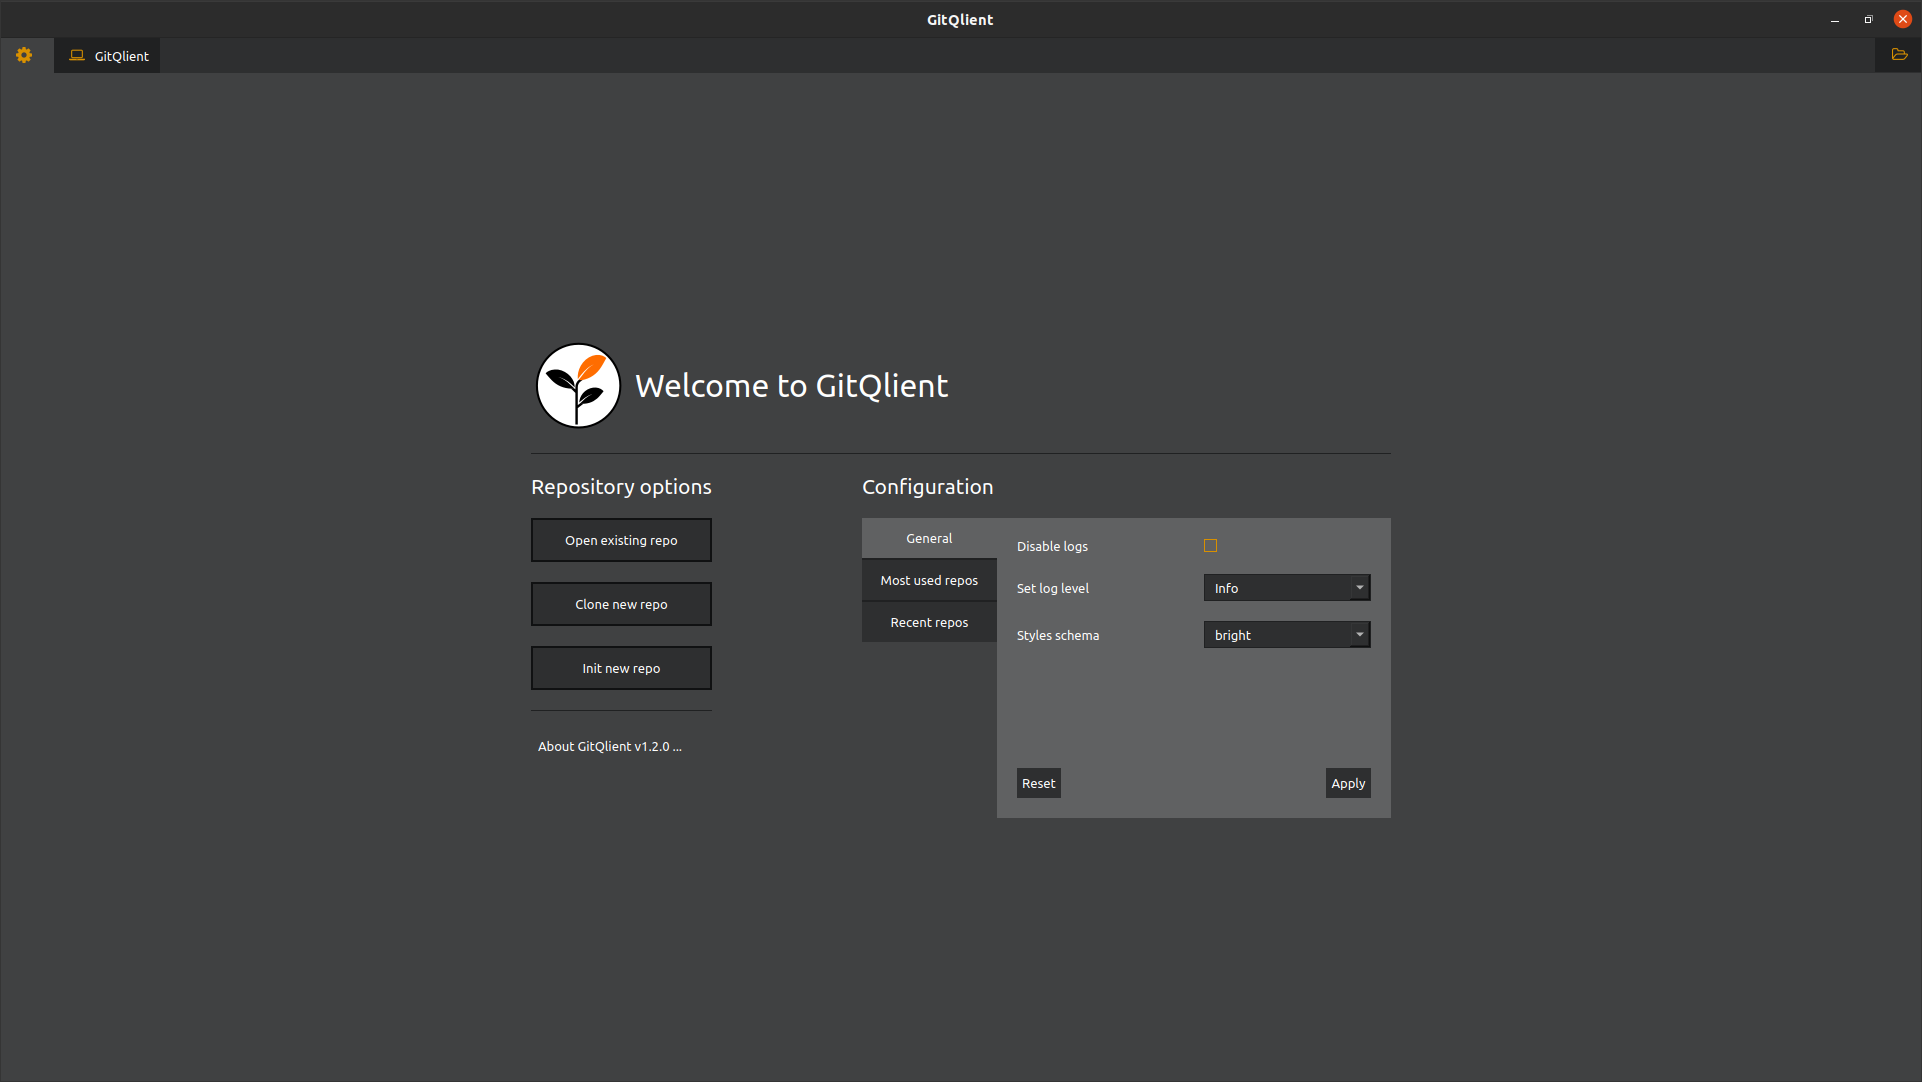
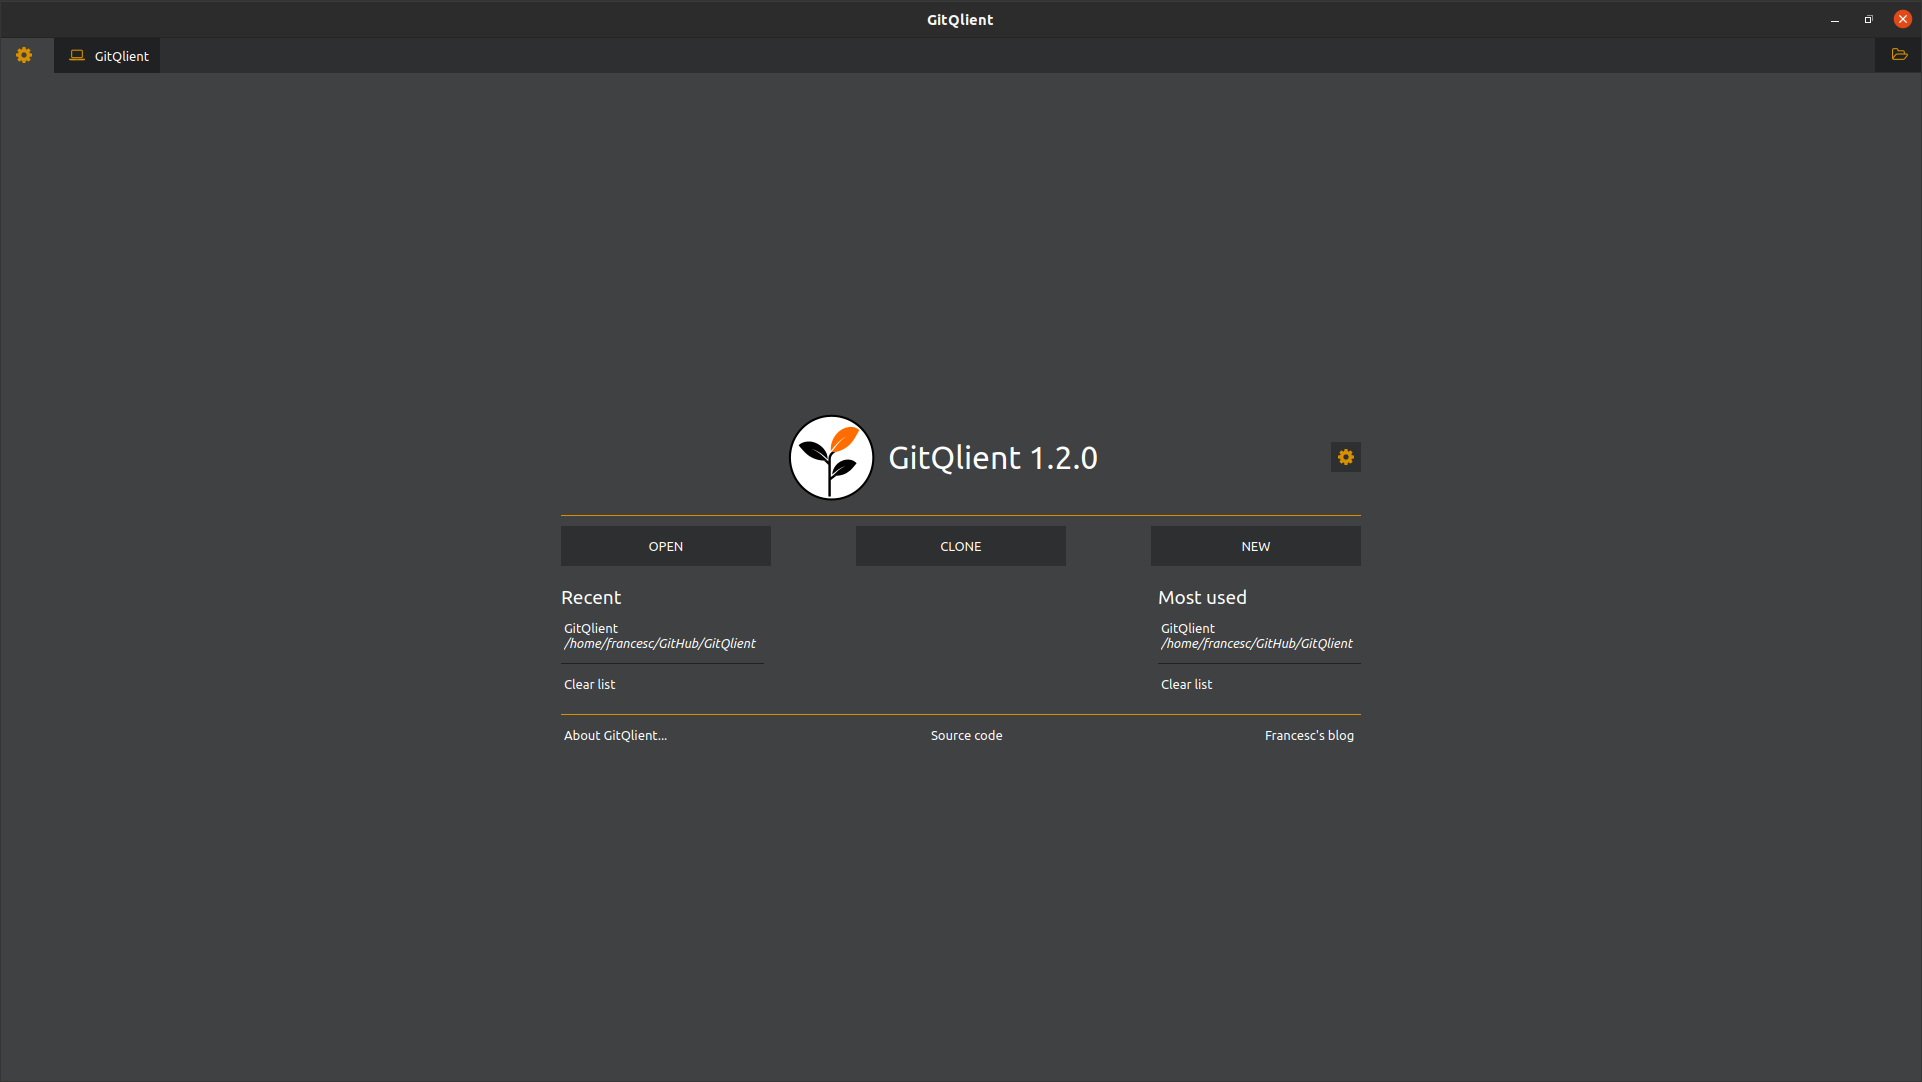
Updating documentation for the init screen

Changed region(s): [[0.281, 0.305, 0.7492, 0.7625], [0.281, 0.427, 0.4058, 0.6405], [0.281, 0.671, 0.3434, 0.7015]]

diff --git a/docs/index.md b/docs/index.md
@@ -72,14 +72,11 @@ The first screen you will see when opening GitQlient is the *Initial screen*. It
 
 ## <a name="gitqlient-configuration"></a>GitQlient configuration
 
-In the GitQlient configuration, you can change some internal parameters that GitQlient uses to update the view and internal data. The available options are:
+In the GitQlient configuration (small button in the right to the logo), you can change some internal parameters that GitQlient uses to update the view and internal data. The available options are:
 
-- Auto-Fetch interval: defined in minutes (from 0 to 60) this interval is used to fetch automatically the changes in the remote repository.
-- Auto-Prune: if active, GitQlient will perform prune actions when it does the automatic fetch.
 - Disable logs: if active, it disables GitQlient logs.
 - Log level: Allows you to choose the threshold of the levels that GitQlient will write. The higher level, the lesser amount of logs.
-- Auto-format files (not operative): if active, every time that you make a commit, it will perform an auto-formating of the code. The formatting will be done by using clang and the clang-format file defined at the root of the repository.
-- External editor: application that will be used to open files to edit them.
+- Styles schema: For the moment you can choose between dark (default) and bright color schema.
 
 ## <a name="init-repo"></a>Initializing a new repository
 
